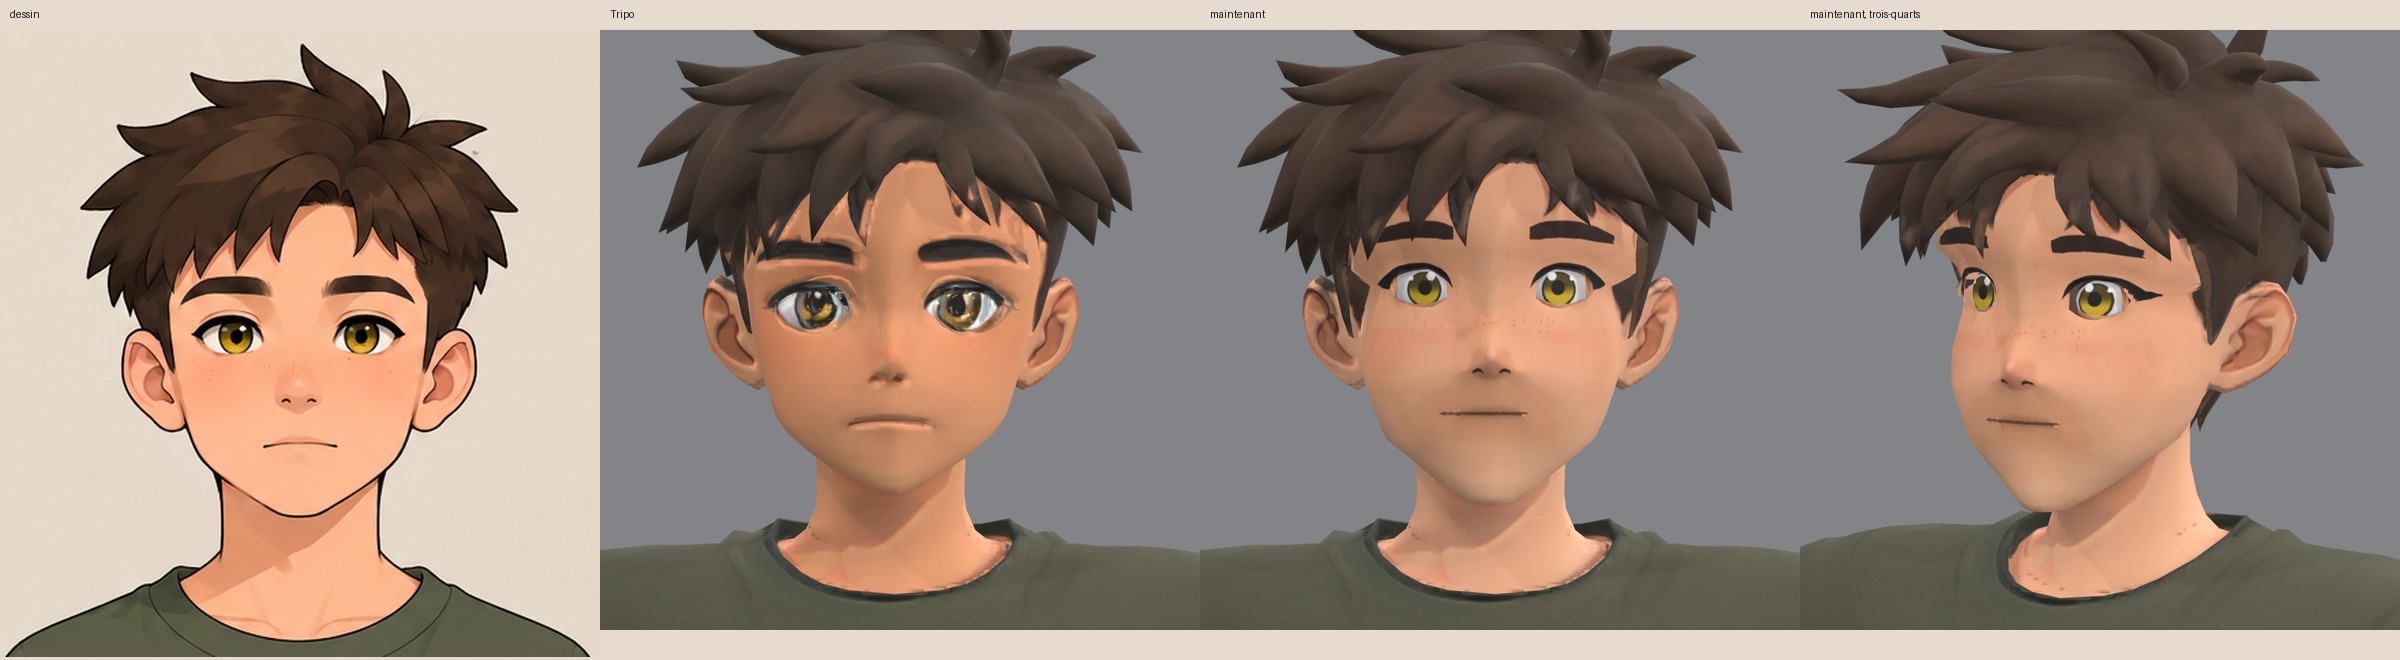
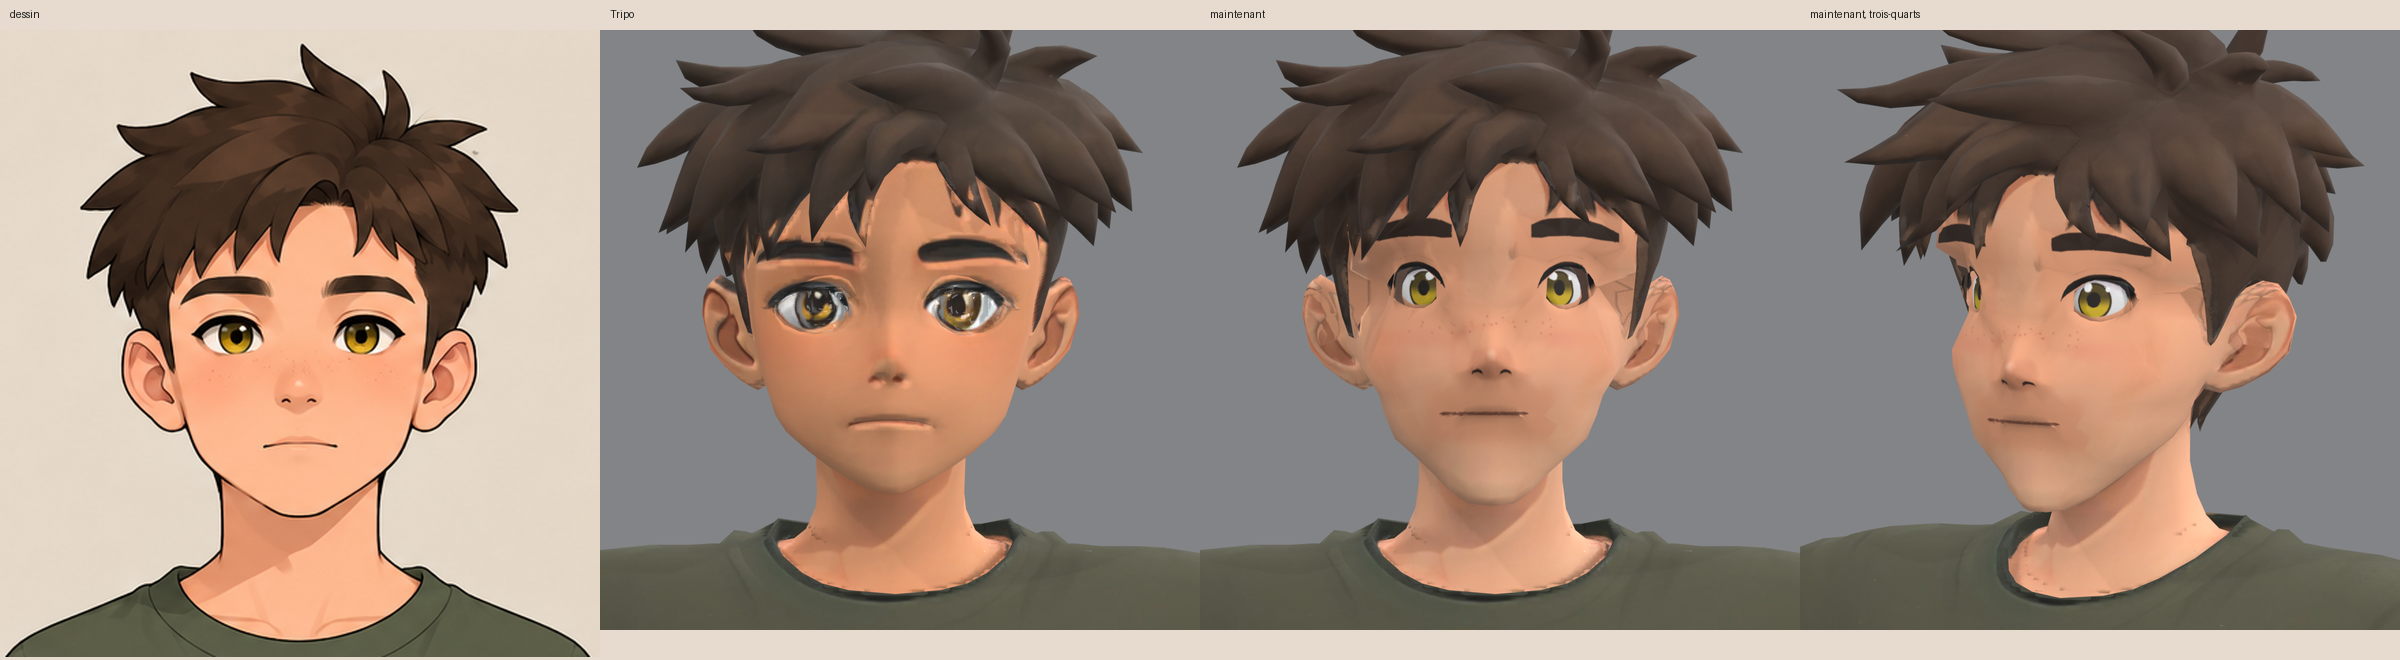
The boy's eyes read in profile: turned onto the side plane of the face, painted by arc length around the head
From the side the eyes were seen edge-on, a sliver with a long wing along the temple. eyes.turn_out turns each eye
20 degrees outward about a vertical axis just behind its pupil, the eyeball rigidly and the face and the hair locks
over the temple with it, fading out toward the back of the head; the drawn eye is painted by arc length around the
head's axis, so its sides are not stretched, with a shorter wing. The hair Tripo painted on the temples under its
locks, exposed by the turn, is cleared to skin. Measured against the drawing, the face below the eyes was 6 to 14%
too wide for the pupil spacing: the lower face narrows 8% and the eyes sit 52 mm apart. sheet_views.py renders the
face sheet's six angles; compare-sheet-views.png sets them under the drawing's.

diff --git a/games/haras_valley/assets/characters/tools/eyes.py b/games/haras_valley/assets/characters/tools/eyes.py
@@ -22,6 +22,8 @@ iris, and Tripo's own eye paint, gloss and normal detail show through at the soc
 
 Colours are the face sheet's, as sampled from `face-six-views.png` (sRGB values, as Blender stores them).
 """
+import math
+
 import numpy as np
 
 # The face sheet's palette.
@@ -38,6 +40,7 @@ PUPIL = np.array([.08, .05, .03], np.float32)
 HIGHLIGHT = np.array([1., 1., 1.], np.float32)
 
 CELL = 0.0004            # front-view grid for reading the openings (0.4 mm)
+HEAD_AXIS_X = -.015      # the head's vertical axis, for painting the eyes by arc length around it
 LOWER_LID = 0.23         # the drawn lower lid's depth below the corners, in eye widths (the drawing's)
 EDGE = 0.0004            # antialiasing width: one texel, measured by paint() from the texture's density
 
@@ -285,15 +288,15 @@ def paint(mesh, world, uv, colour, roughness, metallic, normal, texel_coverage, 
     shapes = [outline(hole_rim(mesh, world, parts['face'], eyeball)) for eyeball in parts['eyeball']]
     midline = (np.mean(shapes[0]['y']) + np.mean(shapes[1]['y'])) / 2
     eyes = [Eye(shape, midline) for shape in shapes]
-    lo_y = min(e.shape['y'].min() for e in eyes) - .02
-    hi_y = max(e.shape['y'].max() for e in eyes) + .02
+    lo_y = min(e.shape["y"].min() for e in eyes) - .035          # out to the temples (their painted hair)
+    hi_y = max(e.shape["y"].max() for e in eyes) + .035
     lo_z = min(e.shape['bottom'].min() for e in eyes) - .01
     hi_z = max(e.shape['top'].max() for e in eyes) + 1.5 * max(e.height for e in eyes)
     texels, densities = [], []
     for index in sorted(parts['face'] | parts['eyeballs'] | parts['brows']):
         polygon = mesh.polygons[index]
         centre = world @ polygon.center
-        if not (lo_y < centre.y < hi_y and lo_z < centre.z < hi_z) or centre.x < 0:
+        if not (lo_y < centre.y < hi_y and lo_z < centre.z < hi_z) or centre.x < -.035:   # the temples sit behind x = 0
             continue
         coverage = texel_coverage(polygon, uv, width, height)
         if coverage is None:
@@ -347,8 +350,13 @@ def paint(mesh, world, uv, colour, roughness, metallic, normal, texel_coverage, 
         sp = template_pupils[1][0] - template_pupils[0][0]
         for k, pupil in enumerate(template_pupils):
             inward = 1.0 if pupil[0] < midline else -1.0
+            # The head's axis: behind the face, through the centre line; the pupil's angle and distance around it.
+            ax, ay = HEAD_AXIS_X, midline
+            front = points[(np.abs(y - pupil[0]) < .002) & (np.abs(z - pupil[1]) < .002)]
+            px_front = float(front[:, 0].max()) if len(front) else .04
+            axis = (ax, ay, math.hypot(px_front - ax, pupil[0] - ay), math.atan2(pupil[0] - ay, px_front - ax))
             current, region = paint_template(current, y, z, pupil, sp, inward, skin, EDGE,
-                                             (eyeball_of >= 0).astype(np.float32))
+                                             (eyeball_of >= 0).astype(np.float32), points[:, 0], axis)
             zone = np.maximum(zone, region)
             eyes[k].pupil = tuple(pupil)
     else:
@@ -545,19 +553,25 @@ TEMPLATE_OPEN_TOP = ((-.25, -.01), (-.22, .06), (-.18, .095), (-.13, .115), (-.0
                      (.08, .12), (.13, .085), (.17, .055), (.195, .03), (.215, 0))
 TEMPLATE_OPEN_BOTTOM = ((-.25, -.01), (-.22, -.05), (-.18, -.08), (-.13, -.10), (-.07, -.118), (0, -.122),
                         (.04, -.12), (.08, -.105), (.13, -.088), (.17, -.072), (.195, -.048), (.215, 0))
-TEMPLATE_LASH_TOP = ((-.335, .03), (-.30, .07), (-.26, .107), (-.22, .139), (-.18, .16), (-.13, .172), (-.07, .183),
+TEMPLATE_LASH_TOP = ((-.31, .035), (-.29, .075), (-.26, .107), (-.22, .139), (-.18, .16), (-.13, .172), (-.07, .183),
                      (0, .185), (.04, .178), (.08, .163), (.13, .14), (.17, .107), (.195, .065), (.215, .01))
-TEMPLATE_WING_BOTTOM = ((-.335, .03), (-.30, .0), (-.25, -.01))
+TEMPLATE_WING_BOTTOM = ((-.31, .035), (-.28, .005), (-.25, -.01))
 TEMPLATE_IRIS = (.007, -.012, .125, .13)            # centre u, v and radii across, up and down
 TEMPLATE_PUPIL = (.012, .0, .05, .055)
 TEMPLATE_HIGHLIGHTS = ((.056, .085, .032), (-.09, .07, .018))
 
 
-def paint_template(colour, y, z, pupil, sp, inward, skin, edge, on_eyeball=None):
+def paint_template(colour, y, z, pupil, sp, inward, skin, edge, on_eyeball=None, x=None, axis=None):
     """Paint one drawn eye (the TEMPLATE_* curves) around `pupil` (world y, z) at pupil spacing sp; `inward` is +1
     when the nose is toward +y from this eye. Everything in the eye's region that is not the eye becomes skin.
     Returns (colour, region weight)."""
-    u = (y - pupil[0]) * inward / sp
+    if axis is None:
+        u = (y - pupil[0]) * inward / sp
+    else:
+        # Arc length around the head's vertical axis instead of plain y: on the sides of the head, which turn away,
+        # a front projection stretches the eye backward (the wing ran along the temple, seen from the side).
+        ax, ay, radius, pupil_angle = axis
+        u = (np.arctan2(y - ay, x - ax) - pupil_angle) * radius * inward / sp
     v = (z - pupil[1]) / sp
 
     def curve(points):
@@ -569,10 +583,17 @@ def paint_template(colour, y, z, pupil, sp, inward, skin, edge, on_eyeball=None)
 
     def over_(c, paint, alpha):
         a = alpha[:, None]
-        return c * (1 - a) + paint[None] * a
+        return c * (1 - a) + (paint[None] if paint.ndim == 1 else paint) * a     # a colour, or one per texel
 
     region = smoothstep(.5, .42, -u) * smoothstep(.36, .29, u) * smoothstep(.3, .24, v) * smoothstep(-.34, -.26, v)
     colour = over_(colour, skin, region)
+    if on_eyeball is not None:
+        # Toward the temple, Tripo painted hair on the skin under its locks; with the eyes turned out it shows.
+        luminance = colour @ np.array([.299, .587, .114], np.float32)
+        temple = (smoothstep(2.0, 1.8, -u) * smoothstep(.3, .45, -u) * smoothstep(.34, .26, v) * smoothstep(-.6, -.5, v)
+                  * smoothstep(.6, .44, luminance) * (1 - on_eyeball))
+        colour = over_(colour, skin, temple)
+        region = np.maximum(region, temple)
     in_span = inside_sp(u + .25) * inside_sp(.215 - u)
     top, bottom = curve(TEMPLATE_OPEN_TOP), curve(TEMPLATE_OPEN_BOTTOM)
     opening = in_span * inside_sp(top - v) * inside_sp(v - bottom)
@@ -599,7 +620,7 @@ def paint_template(colour, y, z, pupil, sp, inward, skin, edge, on_eyeball=None)
     # Upper lash line and wing.
     lash_top = curve(TEMPLATE_LASH_TOP)
     lash_bottom = np.where(u < -.25, curve(TEMPLATE_WING_BOTTOM), top)
-    lash = inside_sp(lash_top - v) * inside_sp(v - lash_bottom + .004) * inside_sp(u + .335) * inside_sp(.215 - u)
+    lash = inside_sp(lash_top - v) * inside_sp(v - lash_bottom + .004) * inside_sp(u + .31) * inside_sp(.215 - u)
     colour = over_(colour, LASH, lash)
     # A thin crease above it.
     crease = inside_sp(.006 - np.abs(v - lash_top - .045)) * smoothstep(-.22, -.16, u) * smoothstep(.16, .1, u)
@@ -683,3 +704,49 @@ def fit_hole(mesh, world, parts, pupils, sp, margin=.012):
                 moved += 1
     mesh.update()
     return {'vertices_moved': moved}
+
+
+def turn_out(mesh, world, parts, pupils, degrees, inner_radius=.016, outer_radius=.025, pivot_depth=.003):
+    """Turn each eye outward about a vertical axis just behind its pupil: the eyeball rigidly, the face around it in
+    full within inner_radius of the pupil (front view) and fading out by outer_radius, front of the head only. The
+    hair locks over the temples turn with the skin under them, or the skin would slip behind them.
+
+    Tripo's face is flat across the eyes, so from the side an eye is seen edge-on, a sliver; the drawing's profile
+    shows the eye's almond and iris, set on the side plane of the face. The axis passes pivot_depth behind the
+    face's surface at the pupil, so the pupil hardly moves and the front view barely changes."""
+    from mathutils import Vector, Matrix
+    import bmesh as _bmesh
+    from mathutils.bvhtree import BVHTree
+    inverse = world.inverted()
+    bm = _bmesh.new()
+    bm.from_mesh(mesh)
+    bm.transform(world)
+    tree = BVHTree.FromBMesh(bm)
+    midline = (pupils[0][0] + pupils[1][0]) / 2
+    face_vertices = {v for i in parts['face'] | parts['hair'] for v in mesh.polygons[i].vertices}   # the locks too
+    moved, record = {}, []
+    for (py, pz), eyeball in zip(sorted(pupils), parts['eyeball']):
+        hit = tree.ray_cast(Vector((.3, py, pz)), Vector((-1, 0, 0)))
+        front_x = hit[0].x if hit[0] else .04
+        pivot = Vector((front_x - pivot_depth, py, pz))
+        outward = -1.0 if py < midline else 1.0
+        angle = math.radians(degrees) * outward             # +x turns toward the outside
+        eyeball_vertices = {v for i in eyeball for v in mesh.polygons[i].vertices}
+        for index in eyeball_vertices | face_vertices:
+            p = world @ mesh.vertices[index].co
+            if index in eyeball_vertices:
+                w = 1.0
+            else:
+                r = math.hypot(p.y - py, p.z - pz)
+                # A smooth fade toward the back of the head (a hard cut at x = 0 folded the temple skin over).
+                w = float(smoothstep(outer_radius, inner_radius, r)) * float(smoothstep(-.015, .015, p.x))
+                if w <= 0:
+                    continue
+            rotation = Matrix.Rotation(angle * w, 3, 'Z')
+            moved[index] = inverse @ (pivot + rotation @ (p - pivot))
+        record.append({'pivot': [round(c, 4) for c in pivot], 'degrees': round(math.degrees(angle), 1)})
+    bm.free()
+    for index, co in moved.items():
+        mesh.vertices[index].co = co
+    mesh.update()
+    return {'eyes': record, 'vertices_moved': len(moved)}

diff --git a/games/haras_valley/assets/characters/tools/cleanup_face_hair.py b/games/haras_valley/assets/characters/tools/cleanup_face_hair.py
@@ -24,7 +24,7 @@ jaw a V where the drawing's is a U. These fixes change textures and vertices onl
    (face.widen_lower_face, 0: widened they read as hamster cheeks), the eyes shrink to EYE_SCALE and move
    EYE_INWARD toward the nose and EYE_UP under the drawn eyes (eyes.scale), turn EYE_TILT_DEGREES outer corner up
    (eyes.tilt), lose Tripo's sculpted lid ridge (eyes.flatten_lids) and have their holes fitted to the drawn eye's
-   outline (eyes.fit_hole), the nose stands out NOSE_DEPTH as far (face.shrink_nose), the mouth rises MOUTH_UP
+   outline (eyes.fit_hole), and turn EYE_TURN_DEGREES outward onto the side plane of the face (eyes.turn_out), the nose stands out NOSE_DEPTH as far (face.shrink_nose), the mouth rises MOUTH_UP
    (mouth.raise_mouth), the sculpted lips are flattened and closed (mouth.flatten), the area between nose, cheeks and
    chin is smoothed into one surface so no muzzle is left (face.smooth_lower_face) and straightened into one slope
    from under the nose to the chin, so the upper lip does not stand out (face.straighten_profile), and the shading
@@ -61,15 +61,16 @@ FACE_FADE = (0.35, 0.75)               # normal x over which the projection fade
 CHIN_FADE = (0.324, 0.338)             # z over which it fades out above the chin's drawn outline
 HAIR_STRETCH = 0.0                     # Tripo's hair volume already matches the drawing's (measured with the pupils overlaid)
 FRINGE_DROOP = 0.0                     # front strands move down by this much of their height
-EYE_SCALE = (0.68, 0.70)               # across, up-down: each socket to the drawn eye's size (25 by 14.5 mm)
+EYE_SCALE = (0.71, 0.73)               # across, up-down: each socket to the drawn eye's size (25 by 14.5 mm)
 EYE_UP = 0.0054                        # and up under it, so no socket shows below the drawn lower lid
-EYE_INWARD = 0.0042                    # each socket toward the nose, under the drawn eyes' pupils
-EYE_PUPILS = ((-0.0281, 0.3855), (0.0219, 0.3855))   # the drawn eyes' pupils: 50 mm apart (was 54), centred on the face
-CHEEK_WIDEN = 0.0                      # measured 9 to 13% narrower than the drawing's, but widened it reads as hamster cheeks
+EYE_INWARD = 0.0032                    # each socket toward the nose, under the drawn eyes' pupils
+EYE_PUPILS = ((-0.0291, 0.3855), (0.0229, 0.3855))   # the drawn eyes' pupils: 52 mm apart, centred on the face
+CHEEK_WIDEN = -0.08                    # narrower: below the eyes the face measured 6 to 14% wider than the drawing's
 NOSE_DEPTH = 0.6                       # the nose stands out 60% as far: the drawing's is small
 CHIN_RECEDE = 0.005                    # the chin 5 mm further back: the drawing's profile recedes from the nose tip
 MOUTH_UP = 0.0033                      # the drawing's mouth sits 3.3 mm higher (pupils and chin overlaid)
 EYE_TILT_DEGREES = 4.0                 # outer corners up: the socket's droop under the drawn eye
+EYE_TURN_DEGREES = 20.0                # each eye turned outward, onto the side plane of the face, so it reads in profile
 EYE_LIFT = 0.0                         # the socket's middle up by this much of its width (any made the eye round)
 MOUTH_Z, MOUTH_HALF_WIDTH = 0.338, 0.016    # the mouth's middle and half width (front render of model-r03)
 MOUTH_RISE = 0.0                       # the corners stay where they are: raised, they looked unnatural
@@ -337,6 +338,7 @@ def main():
     lift_record = eyes.lift(mesh, world, parts, EYE_LIFT)
     lids_record = eyes.flatten_lids(mesh, world, parts, EYE_PUPILS, EYE_PUPILS[1][0] - EYE_PUPILS[0][0])
     hole_record = eyes.fit_hole(mesh, world, parts, EYE_PUPILS, EYE_PUPILS[1][0] - EYE_PUPILS[0][0])
+    turn_record = eyes.turn_out(mesh, world, parts, EYE_PUPILS, EYE_TURN_DEGREES)
     chin_back = face.recede_chin(mesh, world, face_vertices, CHIN_CENTRE_Y, .339, .309, COLLAR_Z, CHIN_RECEDE)
     nose_shape = face.shrink_nose(mesh, world, face_vertices, CHIN_CENTRE_Y, .361, NOSE_DEPTH)
     mouth_raise = mouth.raise_mouth(mesh, world, parts['face'], CHIN_CENTRE_Y, MOUTH_Z - .002, MOUTH_UP)
@@ -412,7 +414,7 @@ def main():
         'skin_gain': [round(float(c), 3) for c in skin_gain], 'skin_texels_matched': int(rest.sum()),
         'hair_median_before': [round(float(c), 3) for c in hair_before], 'hair_target': [round(float(c), 3) for c in hair_target],
         'hair_texels_recoloured': int(hair_mask.sum()), 'hair_polygons': len(hair_polygons),
-        'eyes': eye_record, 'eye_tilt': tilt_record, 'eye_lift': lift_record, 'eye_lids': lids_record, 'eye_holes': hole_record, 'mouth_corners': mouth_record, 'mouth_line': mouth_paint, 'mouth_flatten': flatten_record, 'lower_face': warp_record, 'cheeks': widen_record, 'nose_depth': nose_shape, 'chin_recede': chin_back, 'lower_face_smooth': lower_smooth, 'profile': profile_record, 'mouth_raise': mouth_raise, 'eye_scale': scale_record, 'nose': nose_record, 'face_paint': face_paint, 'brow_strip_polygons_removed': len(parts['brows']), 'reshaded': normals_record, 'cornea_disc_polygons_removed': len(parts['discs']), 'hair_vertices_moved': len(hair_vertices), 'largest_hair_move': round(largest, 4), 'hair_stretch': HAIR_STRETCH, 'fringe_droop': FRINGE_DROOP,
+        'eyes': eye_record, 'eye_tilt': tilt_record, 'eye_lift': lift_record, 'eye_lids': lids_record, 'eye_holes': hole_record, 'eye_turn': turn_record, 'mouth_corners': mouth_record, 'mouth_line': mouth_paint, 'mouth_flatten': flatten_record, 'lower_face': warp_record, 'cheeks': widen_record, 'nose_depth': nose_shape, 'chin_recede': chin_back, 'lower_face_smooth': lower_smooth, 'profile': profile_record, 'mouth_raise': mouth_raise, 'eye_scale': scale_record, 'nose': nose_record, 'face_paint': face_paint, 'brow_strip_polygons_removed': len(parts['brows']), 'reshaded': normals_record, 'cornea_disc_polygons_removed': len(parts['discs']), 'hair_vertices_moved': len(hair_vertices), 'largest_hair_move': round(largest, 4), 'hair_stretch': HAIR_STRETCH, 'fringe_droop': FRINGE_DROOP,
     }
     (output / 'cleanup.json').write_text(json.dumps(record, indent=2) + '\n')
     print(json.dumps(record, indent=1), flush=True)

diff --git a/games/haras_valley/assets/characters/tools/sheet_views.py b/games/haras_valley/assets/characters/tools/sheet_views.py
@@ -1,0 +1,15 @@
+"""Render a review blend from the face sheet's six angles (front, both three-quarters, both profiles, back).
+
+/Applications/Blender.app/Contents/MacOS/Blender -b --python games/haras_valley/assets/characters/tools/sheet_views.py -- review.blend sv.png
+"""
+import bpy, sys, math
+from mathutils import Vector
+path, out = sys.argv[sys.argv.index('--')+1:][:2]
+bpy.ops.wm.open_mainfile(filepath=path)
+scene=bpy.context.scene; cam=scene.camera; cam.data.ortho_scale=0.30
+scene.render.resolution_x=scene.render.resolution_y=800
+c=Vector((-0.008,-0.003,0.355))
+views={'front':(1,0,0),'tq-a':(1,-0.75,0),'tq-b':(1,0.75,0),'profile-a':(0,-1,0),'profile-b':(0,1,0),'back':(-1,0,0)}
+for name,d in views.items():
+    cam.location=c+Vector(d).normalized()*3; cam.rotation_euler=(c-cam.location).to_track_quat('-Z','Y').to_euler()
+    scene.render.filepath=out.replace('.png',f'-{name}.png'); bpy.ops.render.render(write_still=True)

diff --git a/games/haras_valley/assets/characters/boy/README.md b/games/haras_valley/assets/characters/boy/README.md
@@ -47,17 +47,18 @@ only: the topology and UVs are Tripo's, less the brow strips and cornea discs.
   coincide (the dark centres of the drawn irises; a first measure took a lash line for a pupil and overstated their
   spacing by 12%, which left the eyes too small and too far apart).
 - **Shape first** (`face.py`, `eyes.py`, `mouth.py`). The jaw drops onto the drawing's rounder outline and the chin
-  recedes 5 mm, as the drawing's profile runs straight from nose to chin. Each eye socket shrinks to the drawn eye
-  (25 by 14.5 mm), moves 4.2 mm toward the nose and 5.4 mm up under it, loses Tripo's sculpted lid ridge, and has its
-  hole fitted to the drawn outline. The nose stands out 60% as far; the mouth rises 3.3 mm; the sculpted lips are
+  recedes 5 mm, as the drawing's profile runs straight from nose to chin. Each eye socket shrinks to the drawn eye,
+  moves toward the nose and up under it, loses Tripo's sculpted lid ridge, has its hole fitted to the drawn outline,
+  and turns 20 degrees outward onto the side plane of the face, with the hair locks over the temple, so the eye reads
+  in profile as in the drawing instead of edge-on. The lower face narrows 8%. The nose stands out 60% as far; the mouth rises 3.3 mm; the sculpted lips are
   flattened and the area between nose, cheeks and chin smoothed and straightened into one slope, so no muzzle and
   no bump over the upper lip are left. The shading normals of every moved vertex are re-derived, since Tripo's FBX
-  carries the sculpt's shading frozen. (Widening the cheeks to the drawing's measured width read as hamster cheeks;
-  it is off.)
+  carries the sculpt's shading frozen. 
 - **Then paint.** Tripo builds the head from separate pieces: hair cap, face with a hole at each eye, an eyeball
   behind each hole, brow strips, cornea discs. The eyes are the drawing's own, traced column by column on the face
   sheet (an almond 0.46 pupil spacings wide and 0.26 tall, a nearly flat lash line closing at the inner corner, a
-  short wing) and painted with their pupils 50 mm apart; thick straight brows, blush, freckles and one level mouth line are painted as drawn, placed from
+  short wing) and painted with their pupils 52 mm apart, by arc length around the head so the sides of the eye are not
+  stretched in profile; the hair Tripo painted on the temples under its locks is cleared to skin; thick straight brows, blush, freckles and one level mouth line are painted as drawn, placed from
   the painted pupils, and the nose (light tip, two arched nostrils, round shade) on the sculpted nose's tip. Skin and hair take the drawing's
   colours. Tripo's hair volume measures as the drawing's and is kept.
 
